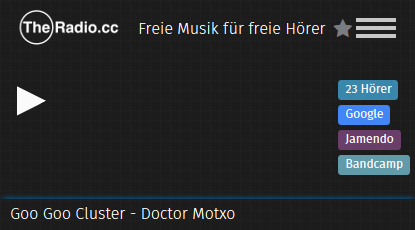
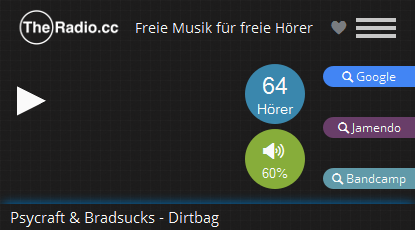
:rocket: volume control (fixes #4)

diff --git a/data/script.js b/data/script.js
@@ -133,6 +133,61 @@ function fadeIn(time) {
     }, time, function() {});
 }
 
+function volume(mode) {
+    var currentVolume = parseInt($("#ls").html());
+    switch (mode) {
+        case "up":
+            if (currentVolume <= 80) {
+                n = currentVolume + 20;
+                changeVol(n, currentVolume);
+            }
+            break;
+        case "down":
+            if (currentVolume >= 20) {
+                n = currentVolume - 20;
+                changeVol(n, currentVolume);
+            }
+            break;
+        case "max":
+            changeVol(100, currentVolume);
+            break;
+        case "min":
+            changeVol(0, currentVolume);
+            break;
+    }
+}
+
+function changeVol(to, old) {
+    if (old == 0 && to > 0) {
+        $("#volume").removeClass("mute");
+    } else if (old > 0 && to == 0) {
+        $("#volume").addClass("mute");
+    }
+    // Ugly way, but calculating in js sucks
+    audi = document.getElementById("audio");
+    switch(to) {
+        case 0:
+            audi.volume = 0;
+            break;
+        case 20:
+            audi.volume = 0.2;
+            break;
+        case 40:
+            audi.volume = 0.4;
+            break;
+        case 60:
+            audi.volume = 0.6;
+            break;
+        case 80:
+            audi.volume = 0.8;
+            break;
+        case 100:
+            audi.volume = 1;
+            break;
+    }
+    $("#ls").html(to);
+}
+
 $(window).keydown(function(e) {
     switch (e.keyCode) {
         case 89:
@@ -149,6 +204,30 @@ $(window).keydown(function(e) {
             return false;
         case 66:
             search("bandcamp");
+            return false;
+        case 107:
+            volume("up");
+            return false;
+        case 109:
+            volume("down");
+            return false;
+        case 54:
+            volume("min");
+            return false;
+        case 55:
+            volume("max");
+            return false;
+        case 56:
+            volume("down");
+            return false;
+        case 57:
+            volume("up");
+            return false;
+        case 106:
+            volume("max");
+            return false;
+        case 111:
+            volume("min");
             return false;
     }
     return;

diff --git a/data/style.css b/data/style.css
@@ -89,7 +89,7 @@ body {
 
 #hoerer {
 	position: absolute;
-	top: 68px;
+	top: 64px;
 	right: 110px;
 	border: none;
 	border-radius: 300px;
@@ -102,8 +102,8 @@ body {
 
 #sendung {
 	position: absolute;
-	top: 68px;
-	right: 180px;
+	top: 64px;
+	right: 175px;
 	border: none;
 	border-radius: 300px;
 	height: 60px;
@@ -111,6 +111,22 @@ body {
 	color: rgb(250, 250, 250);
 }
 	#sendung:before { content: "\f030"; font-family: "octicons"; font-size: 26px; }
+
+
+#volume {
+	position: absolute;
+	top: 129px;
+	right: 110px;
+	border: none;
+	border-radius: 300px;
+	height: 60px;
+	width: 60px;
+	color: rgb(250, 250, 250);
+	background: rgb(135,173,58);
+}
+
+	#volume:before { content: "\f0ba"; font-family: "octicons"; font-size: 26px;}
+	#volume.mute:before { content: "\f080"; font-family: "octicons"; font-size: 26px;}
 
 #knopf {
 	margin-left: 7px;

diff --git a/data/player.html b/data/player.html
@@ -30,6 +30,7 @@
 					<div id="graph">
 						<button id="sendung" class="hide"></button><br>
 						<button id="hoerer"><span id="listeners">-1</span> H&ouml;rer</button><br>
+						<button id="volume"><br><span id="ls">100</span>%</button><br>
 					</div>
 				</div>
 				<div id="about" class="hide">

diff --git a/CHANGELOG.md b/CHANGELOG.md
@@ -1,4 +1,8 @@
 # Changelog #
+### v0.3.2 ###
+
+  * `added` volume control
+  
 ### v0.3.1.5 ###
 
   * `changed` switched from FontAwesome to Octicons
